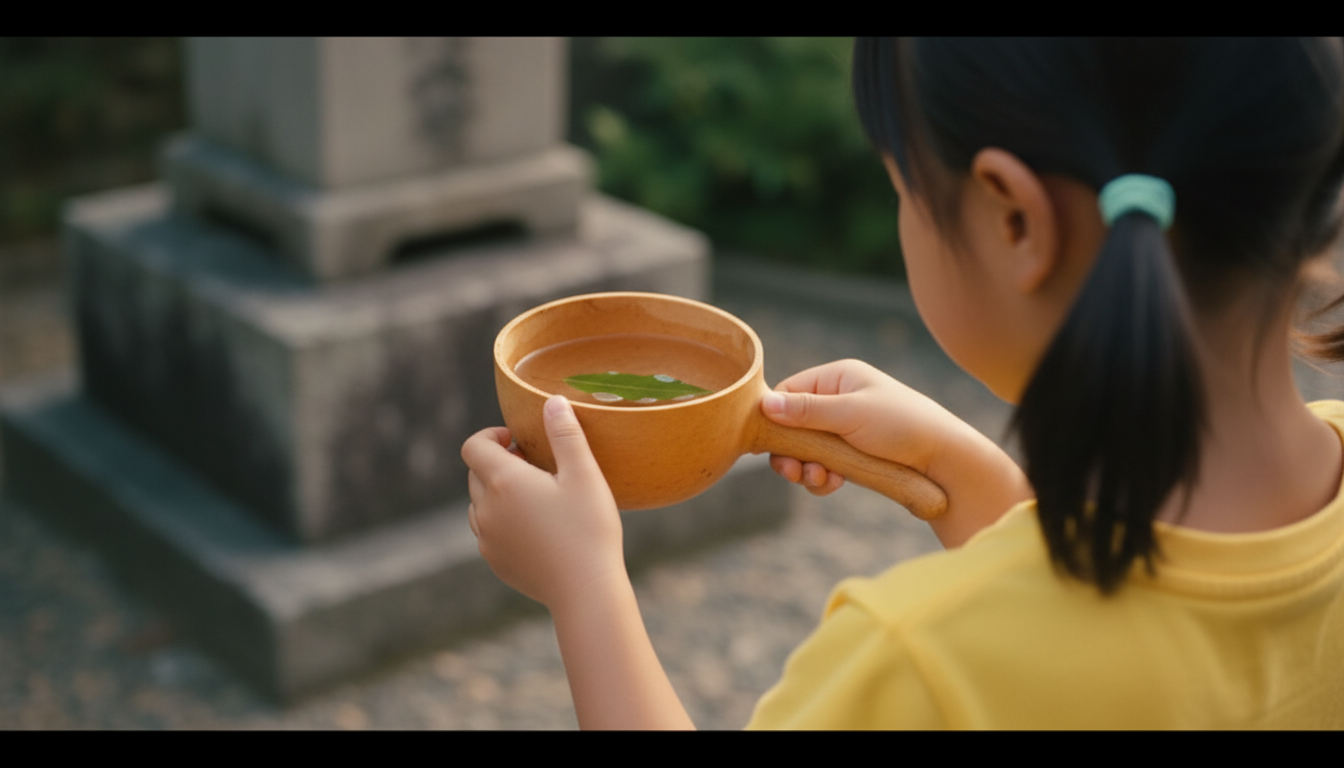
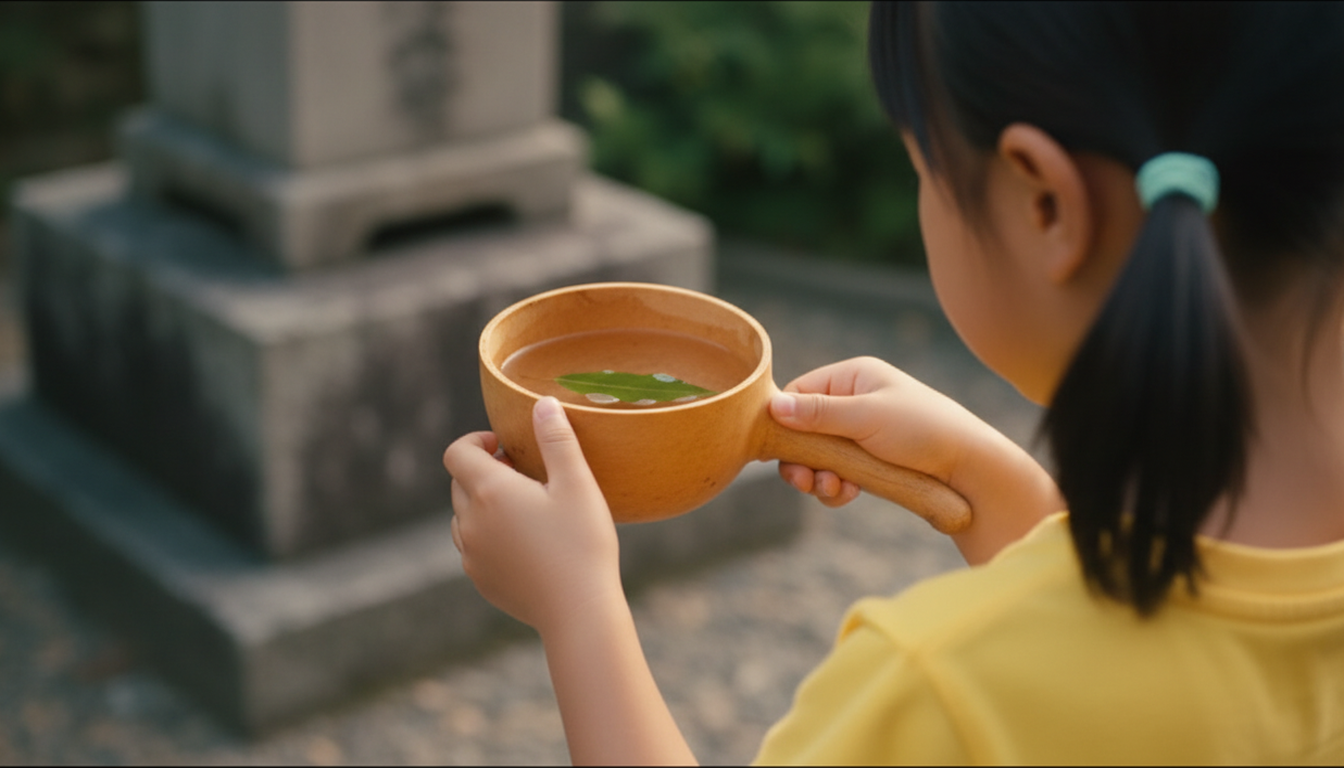
버들잎 키프레임 B단계 Kill Gate: 25장 재생성 스펙 + 레터박스 자동 크롭(S13c·S28d·S14d2)
- 잎 모양(버들잎 아님) 6장: 소품 셀 참조 제외 + 버들잎 고정 문장
- 실존 편의점 로고(S26i)·벽 줄무늬 유사 트레이드 드레스(S27 5장) 제거 문장
- 도게자 자세, 버즈아이 뒤집힌 얼굴, 거대 얼굴, 흰 사각 잡티, CCTV 시점, 사진 대신 휴대폰, 레터박스·필러박스
- S27b 생성 실패분 재시도

Claude-Session: https://claude.ai/code/session_014wxMMzUQSbGFTmqYgUx8fq

diff --git a/scripts/build_yanagi_keyframes.py b/scripts/build_yanagi_keyframes.py
@@ -39,12 +39,40 @@ LOC_NOTE = {  # 로케이션별 고정 문장(PHASE 2 Kill Gate 잔여 결함 + 
     "props-photo": ("The small black-and-white photo shows a teenage girl in a 1960s blouse standing beside an old round stone well with a "
                     "wooden bucket and a weeping willow; NO faucet, NO tap, NO modern objects."),
     "props-cup": "The cup is a plain white paper cup with no print; one long narrow willow leaf floats on the water.",
+    "loc-store-int": ("Store interior walls are plain white with NO coloured stripes or bands along the top of the walls or shelves, "
+                      "no brand trade dress, no logos, no numerals, no posters with writing."),
 }
+WILLOW = ("The leaf is a WEEPING-WILLOW leaf: very long and slender like a narrow blade (about 9 cm long, under 1.2 cm wide), "
+          "smooth untoothed edges, tapering to a long pointed tip, a thin pale midrib; NOT round, NOT oval, NOT serrated, NOT a birch, "
+          "elm, beech or cherry leaf.")
+NO_PROP_REF = {"S07a", "S09a", "S09a2", "S26f", "S26h", "S29b"}  # 시트 소품 셀의 잎 모양이 틀려 참조에서 뺌(문장으로 고정)
 
 
 TIGHT = ("Tight chest-up close-up: head and shoulders fill the frame, the top of the head near the top edge, the frame cut at mid-chest; "
          "the face occupies about one third of the frame height; hands NOT visible. Full-frame 16:9 image, no black bars.")
+FULL = "Full-frame 16:9 image filling the whole canvas: NO black bars, NO white borders, NO letterbox or pillarbox."
 COMPOSITION = {  # 키프레임 Kill Gate 보강 (A단계 1차 검수 2026-10-05)
+    # B단계 1차 검수
+    "S07a": WILLOW, "S09a2": WILLOW, "S29b": WILLOW + " Two such leaves float side by side.",
+    "S09a": WILLOW + (" Setting: the wooden bench in the willow shade right beside the small convenience store (as in the location "
+                      "reference), NOT a park, no stone lantern. Close-up: the paper cup sharp in the lower foreground, Ogata's face "
+                      "soft behind it."),
+    "S26f": WILLOW + " The worn brown leather notebook lies open, the dry faded olive-brown willow leaf pressed flat under clear film.",
+    "S26h": WILLOW + " The worn brown leather notebook lies open, the dry faded olive-brown willow leaf pressed flat under clear film.",
+    "S26i": FULL + " No logos, no brand names, no numerals anywhere on the glass or walls.",
+    "S27e": ("Sakamoto kneels in a full dogeza on the polished floor: knees on the floor, forehead pressed to the floor, both palms "
+             "flat on the floor in front of his head; NOT a push-up, legs folded under him."),
+    "S27l": ("Bird's-eye view straight down from the ceiling: Sakamoto kneels in dogeza on the mirror-polished floor, seen from "
+             "directly above as a small figure — his back, slicked hair and flat palms; his face is NOT visible. Image upright."),
+    "S27i2": ("Macro insert: the lower half of a man's jaw in profile at the very top edge of the frame, one bead of sweat falling "
+              "toward the mirror-polished floor below, reflections; a normal human scale, no giant face."),
+    "S27f": "Macro insert, no people: one tiny drop of water on the mirror-polished floor, soft reflections; plain floor, no white squares or patches.",
+    "S25a": ("High-angle security-camera view from a ceiling corner of the store: small figures of Ogata, Sato, Murase and Sakamoto "
+             "standing near the counter, wide fisheye-like perspective, slightly cool flat video look."),
+    "S28g": "Haruko looks down at a small faded black-and-white paper photograph held in her fingers; NOT a phone, NOT a tablet.",
+    "S20d": FULL, "S13a2": FULL, "S13c2": FULL, "S26h2": FULL + " " + WILLOW, "S29c": FULL,
+    "S13a3": FULL + " The older woman is seen from behind and the side so that her face is NOT visible; only her floral sleeve and hands.",
+    "S27b": "The black tablet screen shows only a plain dark grey video frame with soft blurred shapes (picture composited later).",
     "S12b": TIGHT + " Haruko sits propped on pillows by the window, looking at the camera with warm worry.",
     "S14g": TIGHT + " Expression: a thin cold smirk with hard narrowed eyes behind the glasses, NOT a broad friendly smile.",
     "S22b": TIGHT + " Expression: an eager over-polite fawning smile, eyebrows raised, shoulders slightly hunched forward.",
@@ -77,12 +105,13 @@ def notes(refs):
 
 
 def build(sc, face_refs):
-    refs = list(face_refs) + list(sc["refs"])
+    src = [r for r in sc["refs"] if not (sc["id"] in NO_PROP_REF and os.path.basename(r).startswith("props-"))]
+    refs = list(face_refs) + src
     parts = ["Create ONE single photorealistic cinematic film still in 16:9 widescreen — one frame only, NOT a grid, no panels, "
              "no borders, no captions."]
     parts += [describe(p, i + 1) for i, p in enumerate(refs)]
     parts.append(sc["keyframe_prompt"])
-    parts += notes(sc["refs"])
+    parts += [n for n in notes(src)]
     if sc["id"] in COMPOSITION:
         parts.append(COMPOSITION[sc["id"]])
     if sc["kind"] == "d":

diff --git a/scripts/kf_letterbox_fix.py b/scripts/kf_letterbox_fix.py
@@ -1,0 +1,40 @@
+#!/usr/bin/env python3
+"""키프레임 레터박스·필러박스 자동 크롭 (규격 제7장 5). 검은/흰 띠를 잘라 16:9로 중앙 크롭 후 원래 크기로 맞춘다.
+원본은 같은 폴더 _v1/에 보관. 사용법: kf_letterbox_fix.py <png>... (띠가 없으면 건너뜀)"""
+import os, shutil, sys
+import numpy as np
+from PIL import Image
+
+
+def bands(a, axis):
+    m = a.mean(axis=(axis, 2)); s = a.std(axis=(axis, 2))
+    flat = ((m < 14) | (m > 242)) & (s < 6)
+    n = len(flat); lo = 0
+    while lo < n // 3 and flat[lo]:
+        lo += 1
+    hi = n
+    while hi > n * 2 // 3 and flat[hi - 1]:
+        hi -= 1
+    return lo, hi
+
+
+def fix(p):
+    im = Image.open(p).convert("RGB"); W, H = im.size; a = np.asarray(im).astype(float)
+    t, b = bands(a, 1); l, r = bands(a, 0)
+    if t < 4 and H - b < 4 and l < 4 and W - r < 4:
+        return False
+    c = im.crop((l, t, r, b)); cw, ch = c.size
+    if cw / ch > 16 / 9:
+        nw = int(ch * 16 / 9); c = c.crop(((cw - nw) // 2, 0, (cw - nw) // 2 + nw, ch))
+    else:
+        nh = int(cw * 9 / 16); c = c.crop((0, (ch - nh) // 2, cw, (ch - nh) // 2 + nh))
+    d = os.path.join(os.path.dirname(p), "_v1"); os.makedirs(d, exist_ok=True)
+    shutil.copy(p, os.path.join(d, os.path.basename(p)))
+    c.resize((W, H), Image.LANCZOS).save(p)
+    print(f"{os.path.basename(p)}: 띠 상{t} 하{H - b} 좌{l} 우{W - r} → 크롭 {c.size}")
+    return True
+
+
+if __name__ == "__main__":
+    for p in sys.argv[1:]:
+        fix(p)
